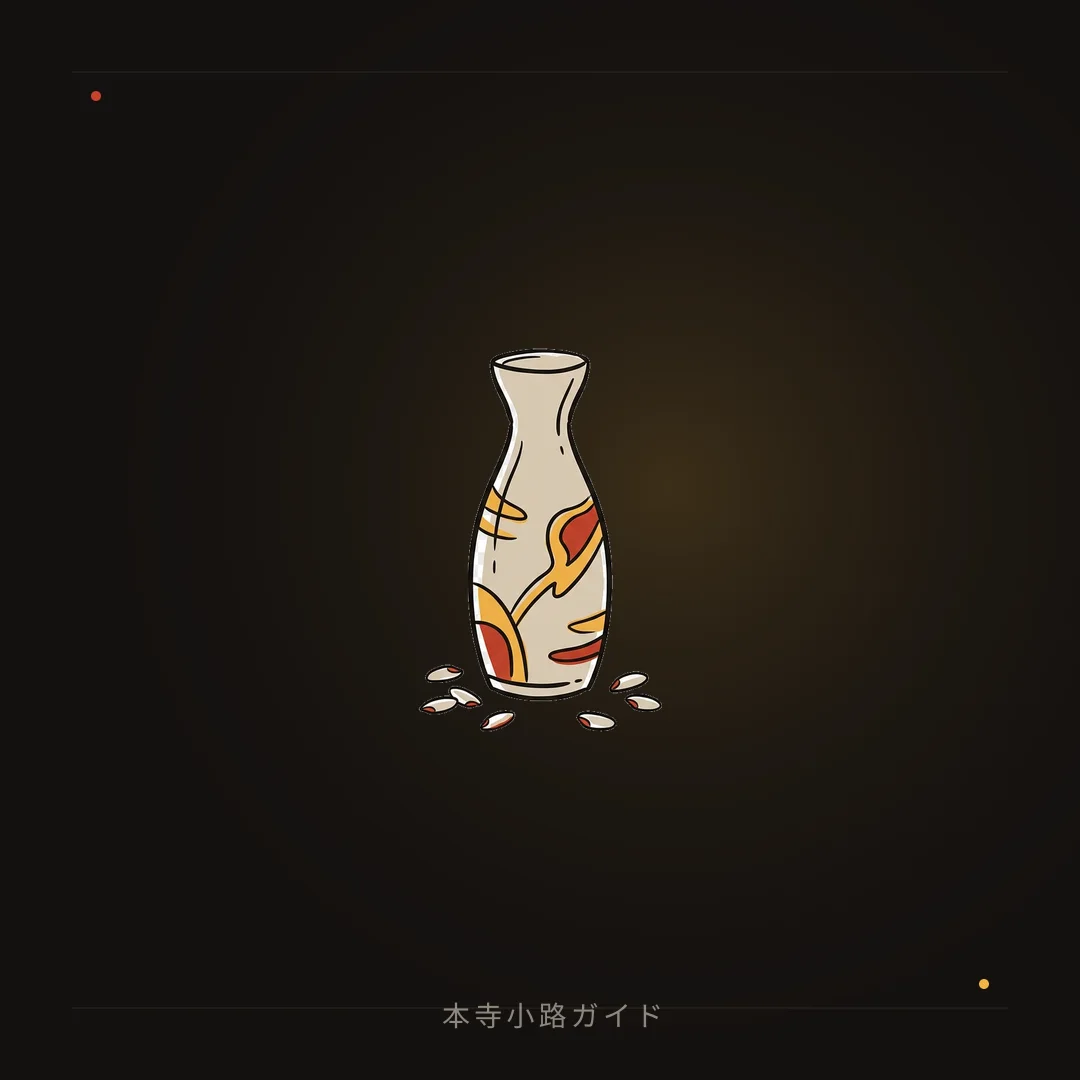
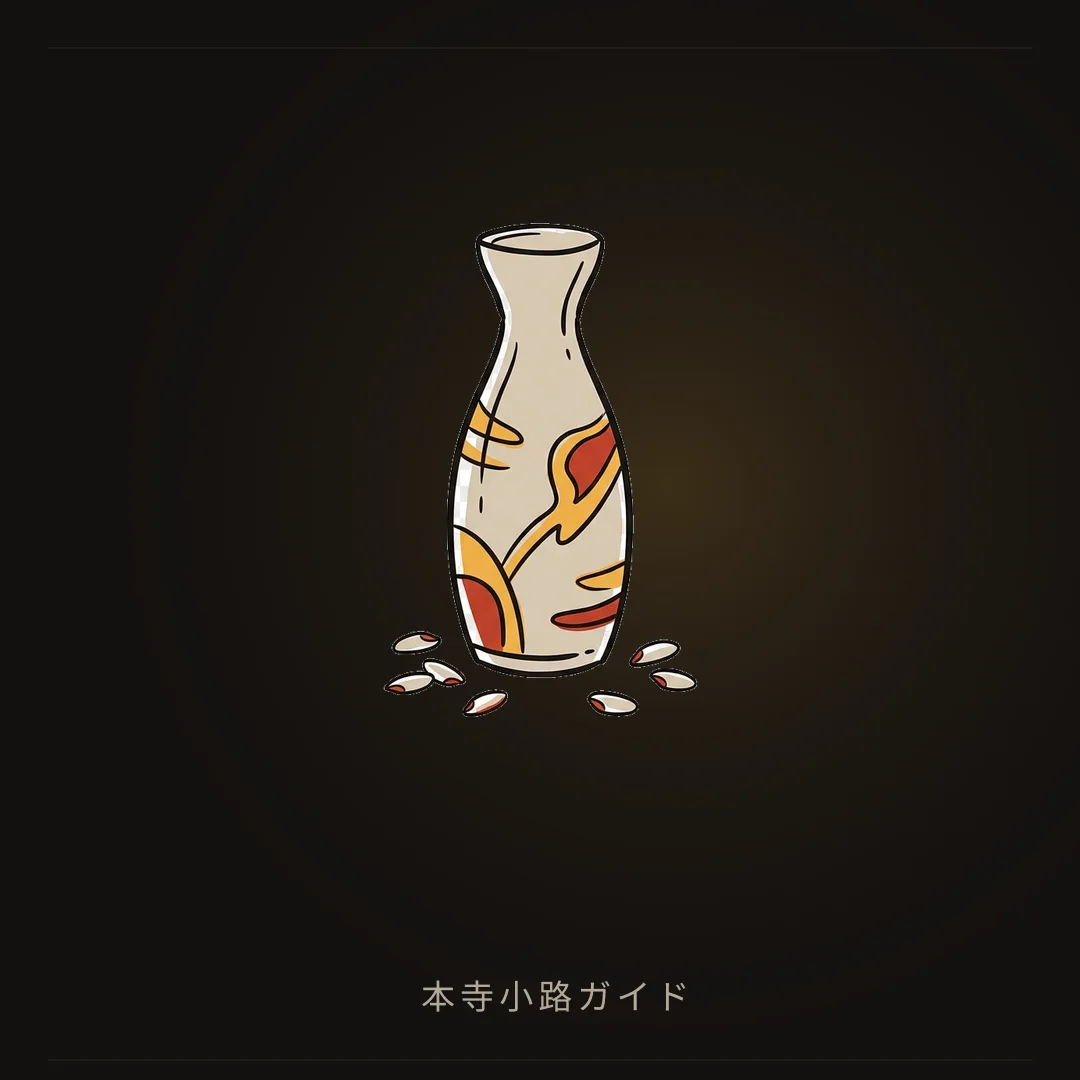
feat: Instagram投稿用の正方形画像を生成

Changed region(s): [[0.3667, 0.1833, 0.6417, 0.6722], [0.3972, 0.8861, 0.6417, 0.9472]]

diff --git a/scripts/lib/column-images.ts b/scripts/lib/column-images.ts
@@ -497,6 +497,20 @@ export async function createIllustrationImage(source: Buffer): Promise<Buffer> {
 // Instagram投稿用スクエア画像の下部に入れるサイト名。変更時はここだけ直せばよい。
 const SQUARE_SITE_LABEL = '本寺小路ガイド';
 const SQUARE_SIZE = 1080;
+// イラストはInstagramフィード表示（幅約400px）でも存在感が出るよう大きめに取る。
+const SQUARE_ILLUSTRATION_SIZE = 800;
+const SQUARE_LABEL_HEIGHT = 110;
+// ラベル下端から画面端までの小さな余白（ラベル自体の分は含まない）。
+const SQUARE_BOTTOM_MARGIN = 30;
+// 「イラスト上端までの余白」と「イラスト下端〜ラベルまでの余白」が
+// 均等になるように、残りの縦スペースを2等分する（サイト名の分だけ
+// イラストの中心が少し上寄りになるのは意図通り）。
+const SQUARE_VERTICAL_GAP = Math.round(
+  (SQUARE_SIZE - SQUARE_ILLUSTRATION_SIZE - SQUARE_LABEL_HEIGHT - SQUARE_BOTTOM_MARGIN) / 2
+);
+const SQUARE_ILLUSTRATION_TOP = SQUARE_VERTICAL_GAP;
+const SQUARE_ILLUSTRATION_LEFT = Math.round((SQUARE_SIZE - SQUARE_ILLUSTRATION_SIZE) / 2);
+const SQUARE_LABEL_TOP = SQUARE_ILLUSTRATION_TOP + SQUARE_ILLUSTRATION_SIZE + SQUARE_VERTICAL_GAP;
 
 let squareLabelFontCache: Buffer | undefined;
 
@@ -508,30 +522,31 @@ async function loadSquareLabelFont(): Promise<Buffer> {
 }
 
 /** サイト名だけの透過PNGラベルをsatoriで描く（文字は<path>化されるため、
- *  実行環境にCJKフォントが入っていなくても確実に描画できる）。 */
+ *  実行環境にCJKフォントが入っていなくても確実に描画できる）。
+ *  主役はイラストなので、生成り色(#d8cbb8)を使いつつ完全な白は避け、
+ *  読める範囲でさりげなく収める。 */
 async function renderSquareSiteLabel(): Promise<Buffer> {
   const font = await loadSquareLabelFont();
-  const height = 90;
   const tree = {
     type: 'div',
     props: {
       style: {
         display: 'flex',
         width: `${SQUARE_SIZE}px`,
-        height: `${height}px`,
+        height: `${SQUARE_LABEL_HEIGHT}px`,
         justifyContent: 'center',
         alignItems: 'center',
         fontFamily: 'Noto Sans JP',
-        fontSize: 28,
+        fontSize: 34,
         letterSpacing: '0.15em',
-        color: 'rgba(242,233,216,0.55)',
+        color: 'rgba(216,203,184,0.82)',
       },
       children: SQUARE_SITE_LABEL,
     },
   };
   const svg = await satori(tree, {
     width: SQUARE_SIZE,
-    height,
+    height: SQUARE_LABEL_HEIGHT,
     fonts: [{ name: 'Noto Sans JP', data: font, weight: 400, style: 'normal' }],
   });
   return sharp(Buffer.from(svg)).png().toBuffer();
@@ -547,20 +562,21 @@ async function renderSquareSiteLabel(): Promise<Buffer> {
  */
 export async function createSquareImage(source: Buffer): Promise<Buffer> {
   const foreground = await sharp(source)
-    .resize(620, 620, { fit: 'contain', withoutEnlargement: true })
+    .resize(SQUARE_ILLUSTRATION_SIZE, SQUARE_ILLUSTRATION_SIZE, { fit: 'contain', withoutEnlargement: true })
     .png()
     .toBuffer();
+  // 左上・右下の点はゴミに見えるとの指摘を受けて削除し、上下の飾り罫線だけ
+  // 残す（イラスト・ラベルの新しい縦位置に合わせて位置も調整）。
   const background = Buffer.from(`<svg width="${SQUARE_SIZE}" height="${SQUARE_SIZE}" xmlns="http://www.w3.org/2000/svg">
     <defs><radialGradient id="g" cx="62%" cy="45%" r="55%"><stop offset="0" stop-color="#f2b544" stop-opacity="0.18"/><stop offset="1" stop-color="#14110f" stop-opacity="0"/></radialGradient></defs>
     <rect width="${SQUARE_SIZE}" height="${SQUARE_SIZE}" fill="#14110f"/><rect width="${SQUARE_SIZE}" height="${SQUARE_SIZE}" fill="url(#g)"/>
-    <path d="M72 72 H1008 M72 1008 H1008" stroke="#d8cbb8" stroke-opacity="0.12"/>
-    <circle cx="96" cy="96" r="5" fill="#c8412f"/><circle cx="984" cy="984" r="5" fill="#f2b544"/>
+    <path d="M48 48 H1032 M48 1060 H1032" stroke="#d8cbb8" stroke-opacity="0.12"/>
   </svg>`);
   const label = await renderSquareSiteLabel();
   return sharp(background)
     .composite([
-      { input: foreground, gravity: 'center' },
-      { input: label, top: SQUARE_SIZE - 110, left: 0 },
+      { input: foreground, top: SQUARE_ILLUSTRATION_TOP, left: SQUARE_ILLUSTRATION_LEFT },
+      { input: label, top: SQUARE_LABEL_TOP, left: 0 },
     ])
     .webp({ quality: 84, alphaQuality: 95 })
     .toBuffer();
